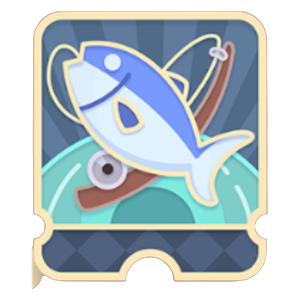
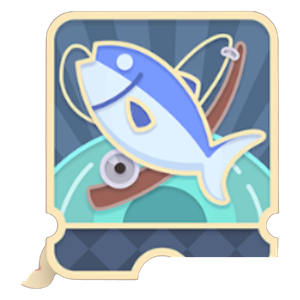
実績バッジ9件の切り抜き不完全を修正 (#12)
* 実績バッジ9件の切り抜き不完全を修正

前回の修正で縦の直線でバッサリ切ったため、丸みのある角まで
一緒に削れて不自然な直線状になっていた・月桂樹の残骸が残って
いた問題を、行単位の輪郭追跡とフレーム形状を考慮した方法で
再修正（不屈の心、虫の司令官、かぼちゃダルマ、収集家、
ロケットスポンサー、パズルの芸術家、弛まぬ筆、
スターダストコレクター、名手の第一歩）。

Claude-Session: https://claude.ai/code/session_01K3eMRAeT6oYS9BRu22swvm

* キャッシュバージョンを更新

Claude-Session: https://claude.ai/code/session_01K3eMRAeT6oYS9BRu22swvm

---------

diff --git a/service-worker.js b/service-worker.js
@@ -1,5 +1,5 @@
 // キャッシュ名（更新時はバージョンを上げる）
-const CACHE_NAME = "hatopi-v2.600.0";
+const CACHE_NAME = "hatopi-v2.601.0";
 
 // キャッシュするファイル一覧
 const CACHE_FILES = [
